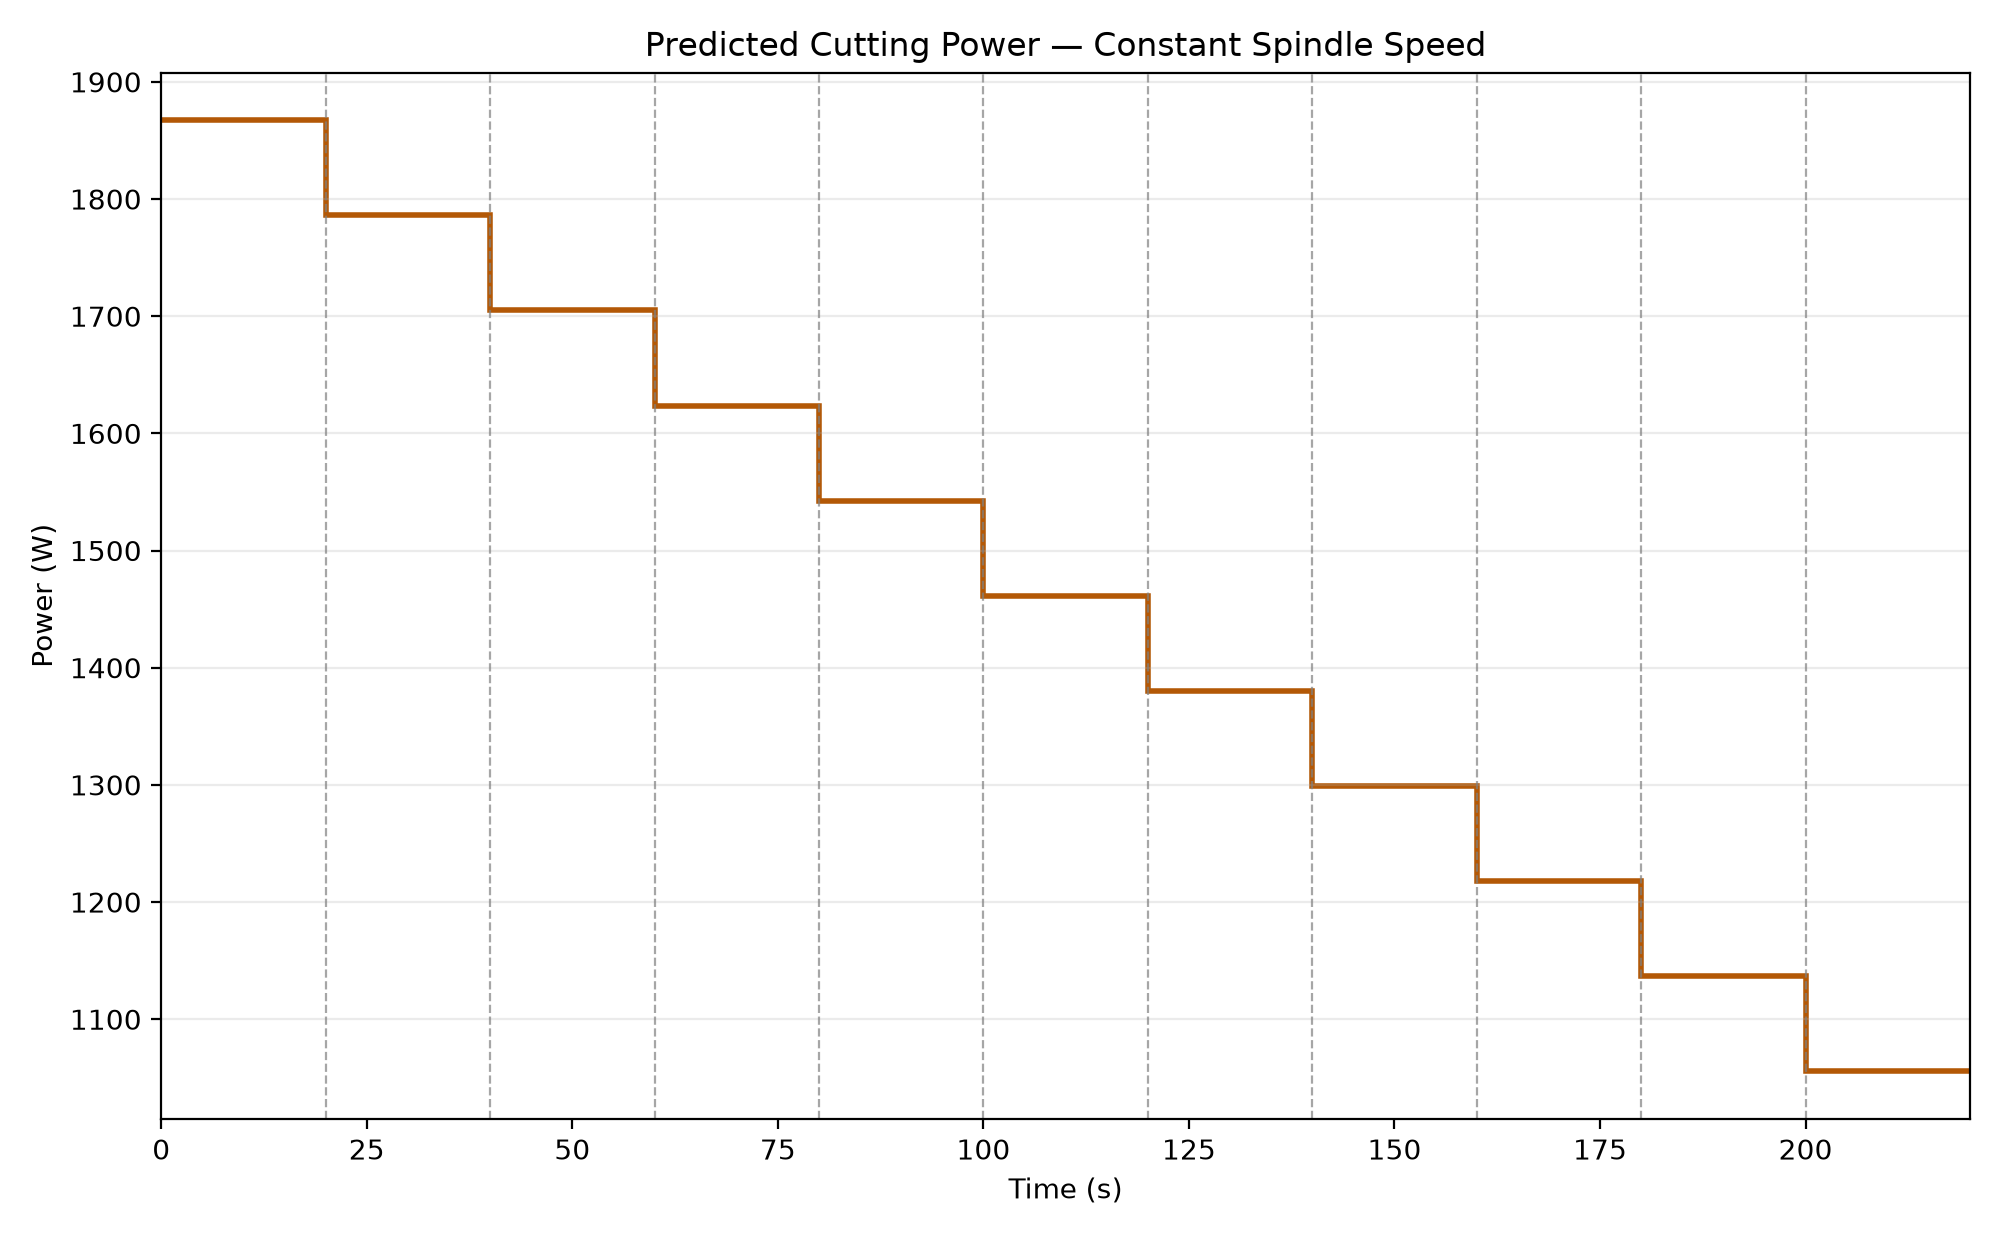
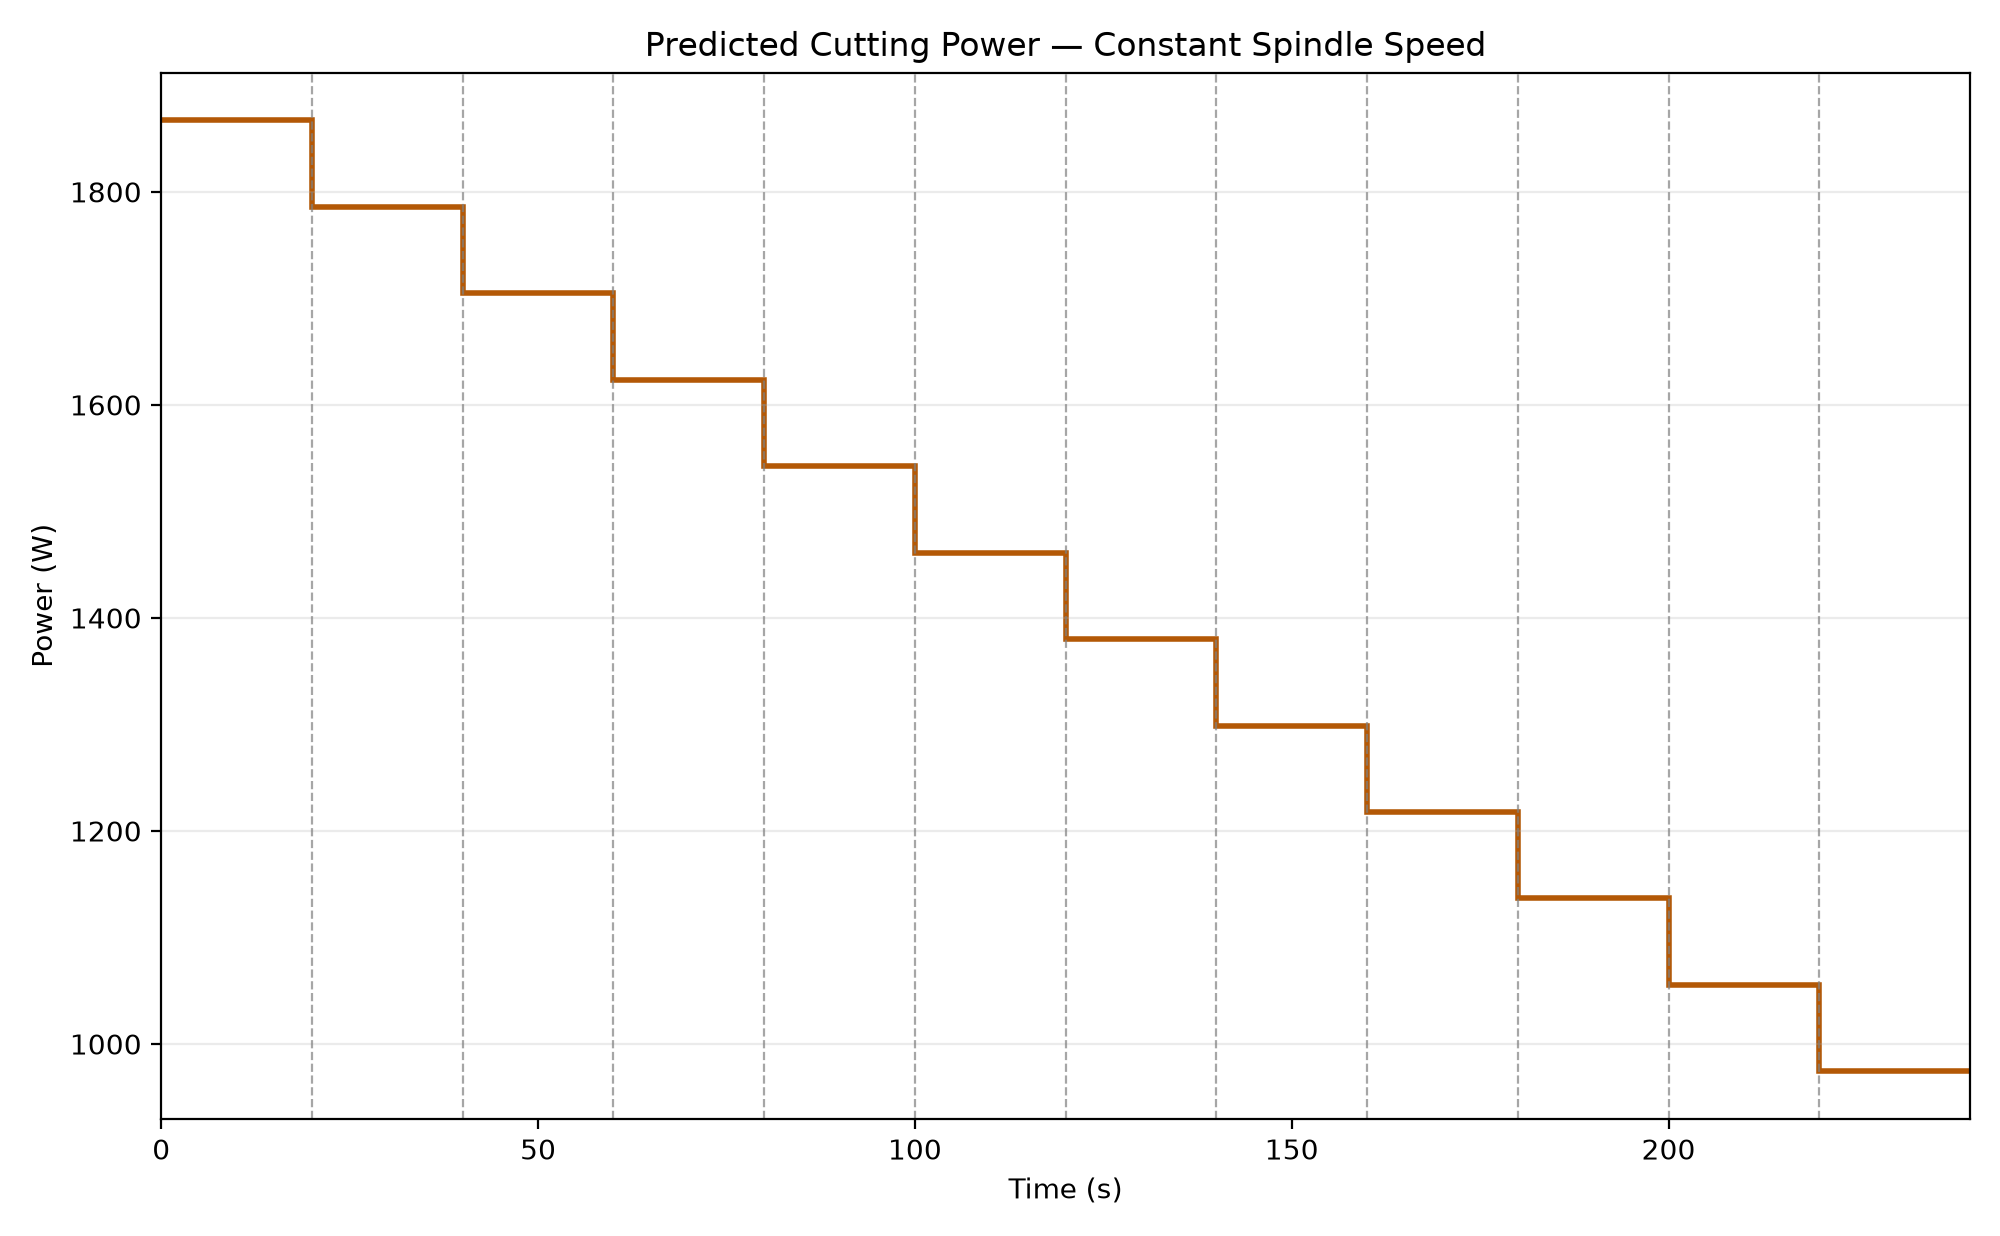
1st-assignment: corrected code of power prediction

diff --git a/1st_assignment/power_prediction_TP.py b/1st_assignment/power_prediction_TP.py
@@ -51,13 +51,12 @@ N_const = 1200    # rpm
 Kc_n = 3230.3     # MPa, specific cutting pressure at constant N
 
 # %%
-# Removing a radial depth ap reduces the diameter by 2 * ap per block.
-# The model assumes the diameter reduction is an integer number of blocks.
-n = int((Ds - De) / (2 * ap))  # number of blocks
-D = np.arange(Ds, De - ap, -2*ap)    # mm
-
-# Starting diameter of each of the n blocks; D also includes the final boundary.
-D_passes = D[:-1]
+# Evaluate one block at each diameter, including both Ds and De.
+# Adjacent diameters differ by 2 * ap (the diametral depth of cut).
+# The model assumes Ds - De is an integer multiple of 2 * ap.
+D = np.arange(Ds, De - ap, -2 * ap)  # mm: 46, 44, ..., 24
+D_passes = D.copy()
+n = len(D_passes)  # 12 prediction blocks, including the 24 mm block
 
 # --- Power prediction ---
 
@@ -91,9 +90,9 @@ t_n = np.full(n, 2*L / Vf_n * 60)                          # s
 # %%
 # Save one row per predicted block, separately for the two operating modes.
 # time_s is the block start, time_end_s its end, and duration_s its length.
-# All remaining parameters apply over that entire interval. Diameter is the
-# starting diameter used in the prediction; the final diameter is a boundary,
-# so it does not generate an extra row. This matches the plotted steps.
+# All remaining parameters apply over that entire interval. Each listed
+# diameter, including De, has its own row and plotted step. Durations retain
+# the notebook's assumption of a travel distance of 2 * L for each block.
 time_edges_vc = np.concatenate(([0], np.cumsum(t_vc)))
 time_edges_n = np.concatenate(([0], np.cumsum(t_n)))
 
